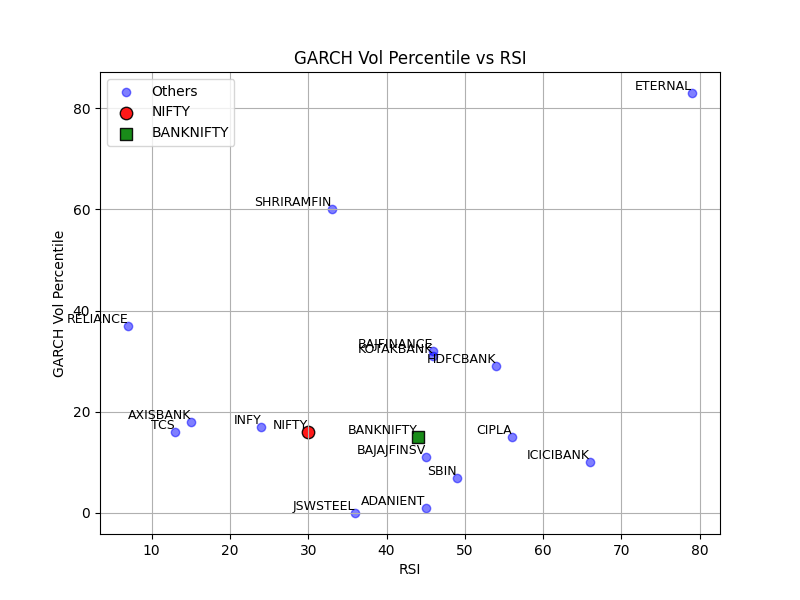
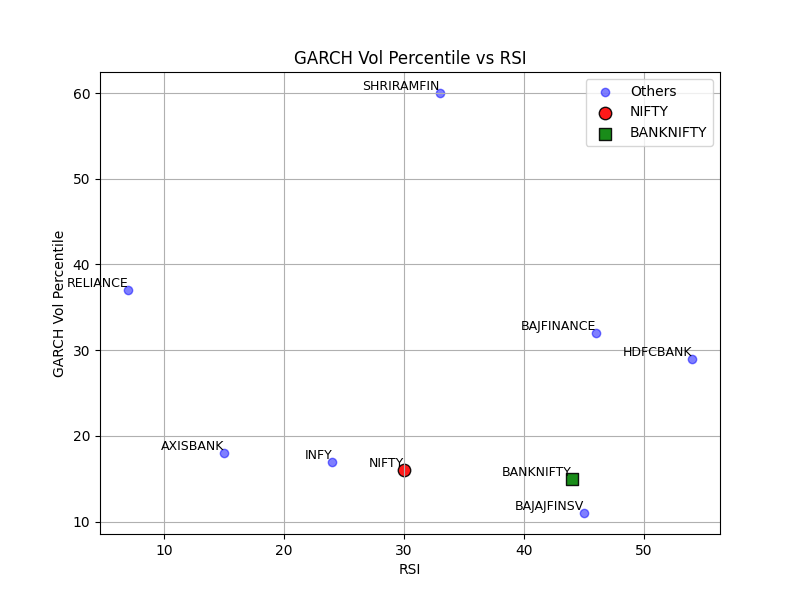
streamlit file updated

diff --git a/streamlit_app.py b/streamlit_app.py
@@ -1,11 +1,17 @@
 import streamlit as st
 import pandas as pd
 import matplotlib.pyplot as plt
+from PIL import Image
 from data_download_vbt import get_symbols, get_dates_from_most_active_files
 from feature_engineering import add_features
 from plotting import plot_garch_vs_rsi, plot_garch_vs_avg_iv
+import os
+import time
+from datetime import datetime as dt_time
 
 st.title("Trading Analytics Dashboard")
+
+st.write("Use the controls above to select date and filter symbols, then click 'Run Analytics'.")
 
 # Select date and top N symbols
 dates = get_dates_from_most_active_files()
@@ -14,40 +20,81 @@ top_n = st.slider("Number of Top Symbols", 1, 20, 10)
 
 all_symbols = get_symbols(selected_date, top_n=top_n)[0]
 
-# Add filters: multi-select for symbols
+# # Dropdown for single symbol selection
+# selected_symbol = st.selectbox(
+#     "Select a single symbol for analysis", options=all_symbols
+# )
+
+# # Add filters: multi-select for symbols
 selected_symbols = st.multiselect(
     "Filter and Select Symbols", options=all_symbols, default=all_symbols
 )
 
 st.write(f"Selected symbols: {selected_symbols}")
 
+# Caching functions
+def was_run_recently(symbol, cache_dir="./analytics_cache", max_age=3600):
+    """Return True if analytics for symbol was run in last max_age seconds."""
+    if not os.path.exists(cache_dir):
+        os.makedirs(cache_dir)
+    cache_file = os.path.join(cache_dir, f"{symbol}_last_run.txt")
+    if os.path.exists(cache_file):
+        with open(cache_file, "r") as f:
+            last_run = float(f.read().strip())
+        if time.time() - last_run < max_age:
+            return True
+    return False
+
+def mark_run(symbol, cache_dir="./analytics_cache"):
+    cache_file = os.path.join(cache_dir, f"{symbol}_last_run.txt")
+    with open(cache_file, "w") as f:
+        f.write(str(time.time()))
+
 if st.button("Run Analytics"):
     progress_text = "Running analytics. Please wait..."
     my_bar = st.progress(0, text=progress_text)
     total = len(selected_symbols)
+    skipped = []
     for i, symbol in enumerate(selected_symbols):
+        if was_run_recently(symbol):
+            skipped.append(symbol)
+            my_bar.progress((i + 1) / total, text=f"Skipping {symbol} (recently processed)")
+            continue
         add_features([symbol])
+        mark_run(symbol)
         my_bar.progress((i + 1) / total, text=f"Processing {symbol} ({i+1}/{total})")
     st.success("Features added for selected symbols.")
+    if skipped:
+        st.info(f"Skipped (already processed in last hour): {', '.join(skipped)}")
 
     # Plot GARCH vs RSI
-    st.subheader("GARCH Vol Percentile vs RSI")
+    dt = dt_time.now().strftime('%Y-%m-%d')
+    st.subheader(f"GARCH Vol Percentile vs RSI  {dt}")
     df1 = plot_garch_vs_rsi(selected_symbols)
-    if df1 is not None:
-        st.dataframe(df1)
-        fig, ax = plt.subplots()
-        ax.scatter(df1['RSI'], df1['garch_vol_percentile'])
-        for _, row in df1.iterrows():
-            ax.text(row['RSI'], row['garch_vol_percentile'], row['symbol'], fontsize=9)
-        st.pyplot(fig)
+    # st.write(df1)
+    # if df1 is not None:
+    #     st.dataframe(df1)
+    #     fig, ax = plt.subplots()
+    #     ax.scatter(df1['RSI'], df1['garch_vol_percentile'])
+    #     for _, row in df1.iterrows():
+    #         ax.text(row['RSI'], row['garch_vol_percentile'], row['symbol'], fontsize=9)
+    #     st.pyplot(fig)
 
-    # Plot GARCH vs Avg IV
-    st.subheader("GARCH Vol Percentile vs Avg IV")
-    fig2 = plot_garch_vs_avg_iv(selected_symbols)
-    if fig2 is not None:
-        st.pyplot(fig2)
+    # Load and display image from Images folder
+    
+    image_path = os.path.join("Images", f"garch_vs_rsi_{dt}.png")
+    if os.path.exists(image_path):
+        st.image(Image.open(image_path), caption="GARCH vs RSI Scatter Plot", use_container_width=True)
+    else:
+        st.warning(f"Image not found: {image_path}")
 
-st.write("Use the controls above to select date and filter symbols, then click 'Run Analytics'.")
+    # # Plot GARCH vs Avg IV
+    # st.subheader("GARCH Vol Percentile vs Avg IV")
+    # fig2 = plot_garch_vs_avg_iv(selected_symbols)
+    # if fig2 is not None:
+    #     st.pyplot(fig2)
+
+
 
 # To run: streamlit run app.py
 
